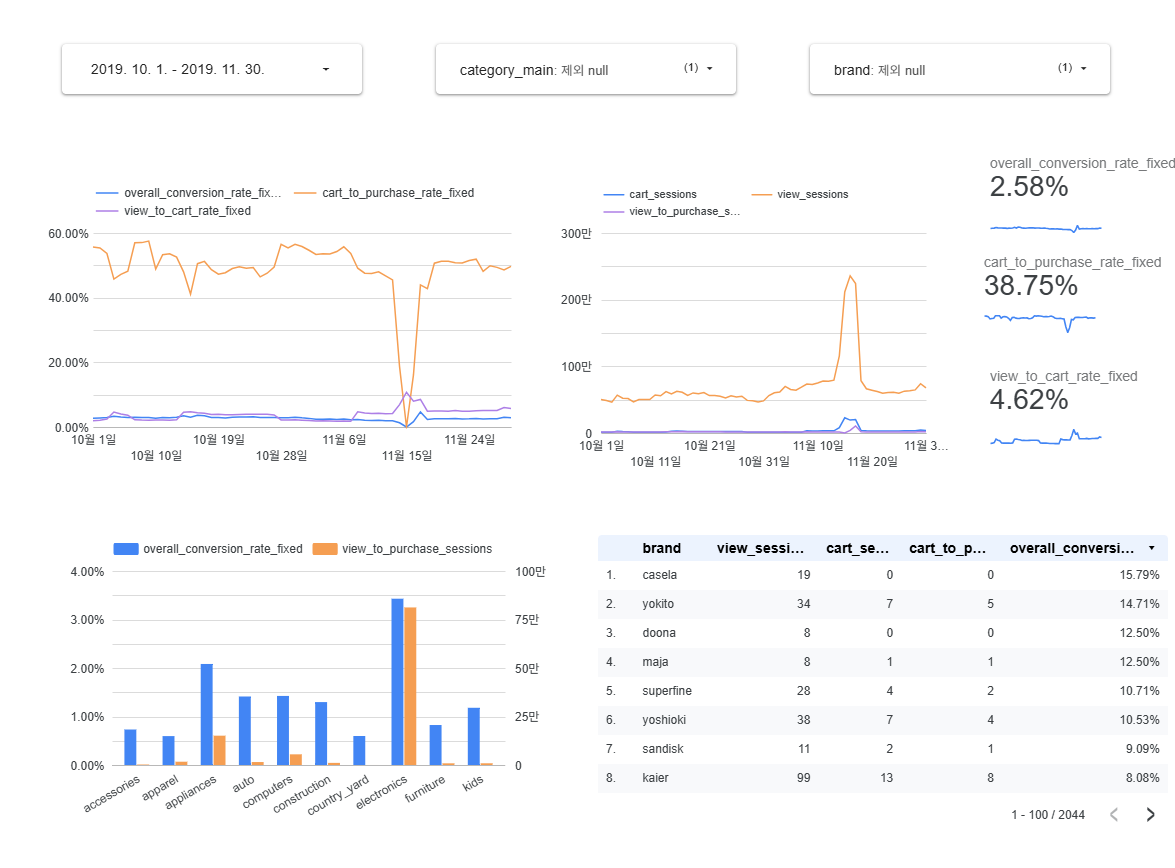
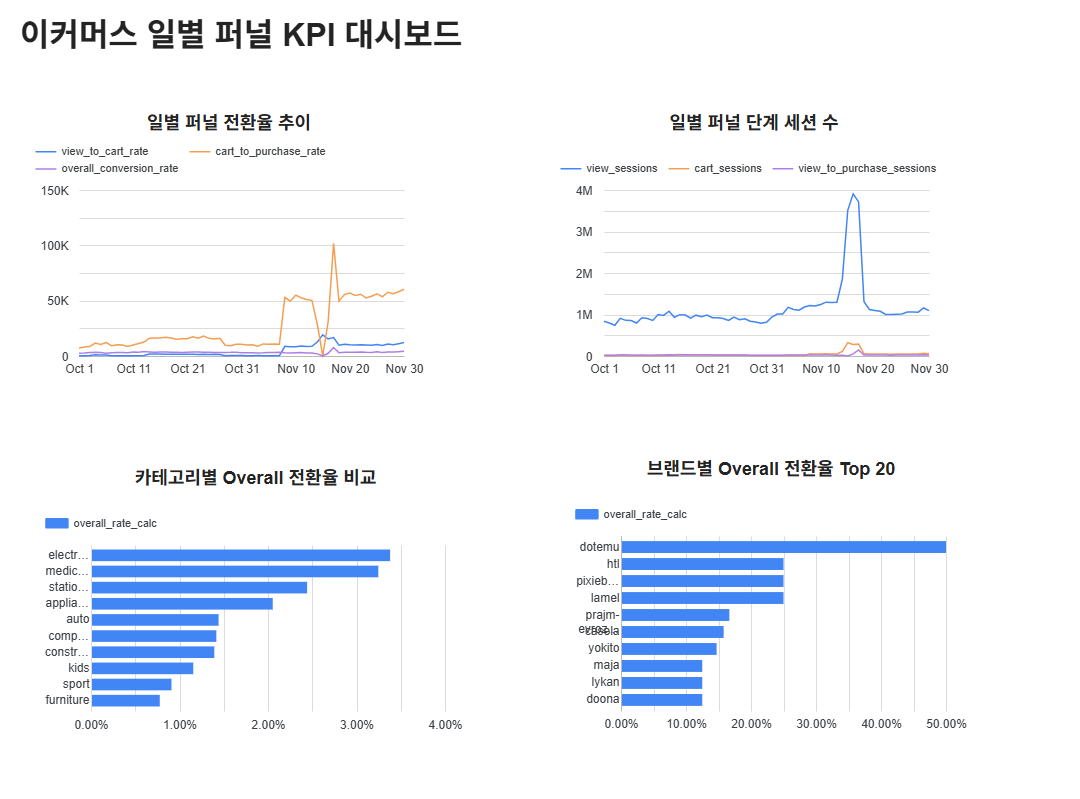
feat: complete

diff --git a/docs/portfolio/clickstream/ppt_slides.md b/docs/portfolio/clickstream/ppt_slides.md
@@ -1,0 +1,169 @@
+# 클릭스트림 파이프라인 PPT 슬라이드 상세 구성안 (발표용 본문 확장)
+
+## 슬라이드 1. 프로젝트 소개
+- 제목: 클릭스트림 전환 퍼널 분석 파이프라인 구축
+- 한 줄 요약: "유입은 많은데 구매가 안 되는 문제를 데이터 파이프라인으로 해결"
+- 문제: 데이터가 흩어져 있어 전환 병목을 일관되게 측정하기 어려움
+- 해결: 수집 -> 변환 -> 적재 -> 모델링 -> 시각화를 하나의 운영 흐름으로 구현
+- 성과: 퍼널 KPI를 주기적으로 확인하고 개선 우선순위를 정할 수 있는 기반 확보
+- 시각 요소: 파이프라인 아이콘 타임라인
+- 발표 포인트: 비즈니스 문제를 기술 구현으로 연결한 프로젝트임을 먼저 강조
+
+## 슬라이드 2. 문제 정의(상세)
+- 현상 1: view 트래픽은 충분한데 purchase 전환은 기대 대비 낮음
+- 현상 2: 유입 증가 구간에서도 구매가 비례 증가하지 않는 케이스 존재
+- 현상 3: 카테고리/브랜드별 편차는 큰데 원인 분석 기준 부재
+- 원인 가설 A: 상품 정보/가격/리뷰 부족 -> `view -> cart` 이탈
+- 원인 가설 B: 배송비/결제 복잡도/신뢰 이슈 -> `cart -> purchase` 이탈
+- 데이터 과제: 원본 로그 품질 편차로 지표 신뢰성 위험
+- 해결 목표: 단계별 손실 구간과 개선 대상을 데이터로 명확화
+- 시각 요소: 퍼널 + 원인 가설 매핑 다이어그램
+- 발표 포인트: "전환이 낮다"가 아니라 "어디서 왜 낮은지"를 찾는 문제로 재정의
+
+## 슬라이드 3. 목표와 KPI 정의
+- 목표 1: 수작업 없는 배치 파이프라인 자동화
+- 목표 2: 전환 KPI 정의 표준화(팀 내 지표 해석 일치)
+- 목표 3: 분석 결과를 실행 액션으로 연결
+- KPI 1: `view_to_cart_rate` = cart/view
+- KPI 2: `cart_to_purchase_rate` = purchase/cart
+- KPI 3: `overall_conversion_rate` = purchase/view
+- 분석 축: 월/일, 카테고리, 브랜드, 세션+상품
+- 시각 요소: KPI 정의 테이블
+- 발표 포인트: KPI를 먼저 고정해 추후 논쟁 비용을 줄인 점 강조
+
+## 슬라이드 4. 전체 아키텍처
+- 입력: Kaggle E-commerce Behavior Data (2019 Oct/Nov)
+- 저장 계층: GCS `raw/kaggle/` -> GCS `processed/clickstream/`
+- 처리 계층: Spark(Dataproc)로 타입 정제/파티션 생성
+- 웨어하우스: BigQuery 외부테이블 + 파티션/클러스터 테이블
+- 모델 계층: dbt(staging -> marts)
+- 소비 계층: Looker Studio 대시보드
+- 오케스트레이션: Airflow 3개 DAG 분리 운영
+- 시각 요소: End-to-End 아키텍처 다이어그램
+- 발표 포인트: 계층 분리로 운영/장애 대응/확장성 확보
+
+## 슬라이드 5. Terraform 인프라 구현
+- 문제: 수동 리소스 생성 시 환경별 불일치와 누락 발생
+- 해결: Terraform으로 리소스 선언적 관리
+- 구현 1: GCS bucket 생성(버저닝, lifecycle rule, uniform access)
+- 구현 2: BigQuery dataset 생성
+- 운영 효과: 재현 가능한 환경 구축, 재배포 시간 단축
+- 리스크/주의: `force_destroy` 설정 사용 시 운영 정책 분리 필요
+- 시각 요소: Terraform 리소스 관계도
+- 발표 포인트: IaC로 "개발환경만 되는" 상태를 방지
+
+## 슬라이드 6. Airflow DAG 분리 전략
+- DAG 1: `clickstream_ingest_raw` (수집)
+- DAG 2: `clickstream_spark_transform` (변환)
+- DAG 3: `clickstream_pipeline` (적재+모델링+검증)
+- 문제: 단일 DAG에 모든 단계를 넣으면 장애 구간 추적이 어려움
+- 해결: 역할별 DAG 분리 + 태스크 책임 명확화
+- 운영 장점: 실패 범위 축소, 재실행 단위 최소화
+- 공통 운영: 실패 시 Slack webhook 알림
+- 시각 요소: DAG 분리 구조도
+- 발표 포인트: 기술 구현보다 운영가능성(operability)을 우선한 설계
+
+## 슬라이드 7. Ingest DAG 상세 구현
+- 태스크 1: Kaggle CLI로 원본 zip 다운로드
+- 태스크 2: PythonOperator로 zip 압축 해제
+- 태스크 3: CSV 파일을 GCS `raw/kaggle/` 업로드
+- 데이터 보장: 파일 존재 여부 검증 후 실패 처리(FileNotFoundError)
+- 문제 해결: 수작업 다운로드/업로드 제거
+- 성과: 원천 수집 표준화, 월별 입력 재현 가능
+- 시각 요소: ingest task sequence
+- 발표 포인트: "데이터 유입" 단계 자동화가 파이프라인 신뢰성 시작점
+
+## 슬라이드 8. Spark Transform DAG 상세
+- 태스크 1: `csv_parquet_job.py`를 GCS `code/` 경로 업로드
+- 태스크 2: Dataproc job 실행(10월)
+- 태스크 3: Dataproc job 실행(11월)
+- 설정: executor instances/cores/memory, shuffle partition 등 성능 파라미터 명시
+- 운영 제어: `max_active_runs=1`로 중복 실행 제한
+- 문제 해결: 대용량 CSV 직접 쿼리 비효율 해소
+- 성과: 분석 친화 포맷(Parquet) 전환
+- 시각 요소: Dataproc 실행 플로우
+- 발표 포인트: 데이터량 증가를 고려한 분산 처리 선택 근거
+
+## 슬라이드 9. Spark 변환 로직 핵심
+- Bronze: 모든 컬럼 string으로 읽어 원본 손실 최소화
+- Typed: 주요 컬럼 타입 캐스팅(`event_time`, `product_id`, `price`, `user_id` 등)
+- 품질: 캐스팅 실패 탐지 후 `failure_reason` 컬럼으로 원인 라벨링
+- Processed: 핵심 식별값 유효한 행만 채택(event_time/user_id/product_id)
+- 스키마 안정화: Processed schema 재강제(enforce)
+- 시계열 컬럼: `event_date`, `event_month`, `event_month_date` 파생
+- 시각 요소: Bronze -> Typed -> Processed 데이터 흐름
+- 발표 포인트: 변환 로직이 단순 포맷 변경이 아니라 데이터 품질 게이트 역할 수행
+
+## 슬라이드 10. 저장 전략과 재실행 안정성
+- 출력 포맷: Parquet + Snappy compression
+- 파티션: `event_month`, `event_date`
+- 문제: 재실행 시 중복 적재/불일치 위험
+- 해결: 대상 월 파티션 경로 삭제 후 append 적재
+- 결과: 월 단위 idempotent 재처리 가능
+- 확장성: 월 추가 시 동일 패턴 재사용 가능
+- 시각 요소: 파티션 overwrite 전략 도식
+- 발표 포인트: 운영 환경에서 재실행 전략은 필수 설계 요소
+
+## 슬라이드 11. BigQuery DDL/적재 구조
+- SQL 1: `create_external_table.sql` (GCS 원본 참조)
+- SQL 2: `create_partitioned_table.sql`
+- SQL 3: `create_partitioned_clustered_table.sql`
+- 문제: 원본 접근성과 쿼리 성능/비용을 동시에 만족해야 함
+- 해결: 외부테이블 + 최적화 테이블 2계층 운영
+- 성과: 분석용 소스 안정화 및 비용 관리 기반 확보
+- 시각 요소: BigQuery 테이블 계층 구조
+- 발표 포인트: "일단 적재"가 아니라 "분석 운영 관점" DDL 설계
+
+## 슬라이드 12. dbt Staging 모델(`stg_clickstream`)
+- 입력 소스: `clickstream_partitioned_clustered`
+- 정제 1: 이벤트 타입 `view/cart/purchase`만 필터
+- 정제 2: `user_id`, `user_session`, `product_id` null 제거
+- 파생: `category_code`에서 `category_main` 추출
+- 표준화: 컬럼 타입 cast 통일
+- 문제 해결: 원본 로그 품질 편차 완화
+- 성과: 하위 mart 모델의 안정된 입력 보장
+- 시각 요소: stg 전/후 컬럼 비교표
+- 발표 포인트: staging 품질이 전체 KPI 신뢰도의 출발점
+
+## 슬라이드 13. dbt Mart 모델(`fct`/`mart`)
+- `fct_funnel_events`: 세션+상품 단위 퍼널 플래그 생성
+- 플래그: `has_view`, `has_cart`, `has_purchase`, `funnel_stage`
+- `mart_funnel`: 월/카테고리/브랜드 단위 전환율 집계
+- `mart_daily_funnel_kpi`: 일 단위 KPI 및 세션 볼륨 집계
+- 지표 일관성: 동일 모수 기반 전환율 계산
+- 성과: BI에서 재가공 없이 바로 활용 가능
+- 시각 요소: dbt lineage + 지표 산식 박스
+- 발표 포인트: fact와 mart 분리로 상세 진단과 경영 지표를 동시 지원
+
+## 슬라이드 14. 품질 관리/테스트 현황
+- dbt test: `accepted_values`, `not_null` 적용
+- unit test 1: DAG import/태스크 구조 검증
+- unit test 2: Spark 함수(캐스팅/파티션/스키마) 검증
+- integration test: 샘플 데이터로 Spark E2E 흐름 검증
+- TODO: load/resilience/performance 테스트는 현재 skip
+- 리스크 관리: 구현/미구현 범위를 명시해 과장 방지
+- 시각 요소: 테스트 커버리지 매트릭스
+- 발표 포인트: "무엇을 검증했고 무엇이 남았는지" 투명하게 제시
+
+## 슬라이드 15. 대시보드 인사이트와 액션
+- 데이터소스: `mart_funnel`, `mart_daily_funnel_kpi`, `fct_funnel_events`
+- 인사이트 1: `view_to_cart_rate` 저조 카테고리 -> 상세페이지/가격 정책 점검 우선
+- 인사이트 2: `cart_to_purchase_rate` 저조 구간 -> 결제 UX/배송비 정책 실험 우선
+- 인사이트 3: 특정 일자 급락 -> 캠페인 품질/재고/운영장애 교차 점검
+- 액션 1: 상세 콘텐츠 개선 A/B 테스트
+- 액션 2: 결제 단계 단순화, 쿠폰/배송비 실험
+- 액션 3: 장바구니 이탈 세그먼트 리마케팅
+- 우선순위 기준: 영향도 x 실행 난이도 x 리드타임
+- 시각 요소: 인사이트 -> 액션 매핑 테이블
+- 발표 포인트: 분석이 "발견"에서 끝나지 않고 실행으로 이어진다는 점 강조
+
+## 슬라이드 16. 한계와 개선 로드맵
+- 한계 1: 배치 중심이라 near real-time 대응 한계
+- 한계 2: 고급 성능/회복탄력성 테스트 미완료
+- 단기(1~2개월): 모니터링/알림 강화, 테스트 보강
+- 중기(분기): 세그먼트/코호트/리텐션 분석 모델 추가
+- 장기(반기+): 스트리밍 수집/처리 아키텍처 전환 검토
+- 기대 효과: 운영 리스크 감소 + 인사이트 반영 속도 향상
+- 결론: 신뢰 가능한 데이터 제품으로 단계적 고도화
+- 시각 요소: 단기-중기-장기 로드맵 타임라인
+- 발표 포인트: 현재 수준을 과장하지 않고 확장 계획을 명확히 제시

diff --git a/docs/portfolio/clickstream/ppt_script.md b/docs/portfolio/clickstream/ppt_script.md
@@ -1,0 +1,49 @@
+# 클릭스트림 파이프라인 발표 대본 (16장 상세 버전)
+
+## 슬라이드 1. 타이틀
+안녕하세요. 이번 발표는 클릭스트림 데이터를 활용해 전환 퍼널 병목을 분석하는 데이터 파이프라인 구축 경험입니다. 핵심은 수집부터 BI 대시보드까지 하나의 운영 가능한 흐름으로 연결한 점입니다.
+
+## 슬라이드 2. 비즈니스 문제 정의
+문제는 단순히 전환율이 낮다는 것이 아니라, 이탈 원인을 설명할 수 있는 기준이 없었다는 점입니다. 실제로 트래픽은 증가해도 구매가 함께 늘지 않는 구간이 있었고, 카테고리와 브랜드별 편차도 크게 나타났습니다. 그래서 퍼널을 `view -> cart -> purchase`로 분해하고, 단계별로 어떤 대상에서 손실이 큰지 비교 가능하게 만들었습니다. 또한 원인 가설을 가격/콘텐츠 이슈와 결제/배송 UX 이슈로 나눠 액션 가능한 분석 구조로 설계했습니다.
+
+## 슬라이드 3. 목표와 KPI
+목표는 세 가지입니다. 파이프라인 자동화, KPI 표준화, 대시보드 기반 액션 연결입니다. KPI는 `view_to_cart_rate`, `cart_to_purchase_rate`, `overall_conversion_rate`로 고정해 해석 일관성을 맞췄습니다.
+
+## 슬라이드 4. 아키텍처
+아키텍처는 Kaggle 수집, GCS 저장, Spark 변환, BigQuery 적재, dbt 모델링, Looker Studio 시각화 순서입니다. 저장/처리/분석 계층을 분리해 운영성과 확장성을 동시에 확보했습니다.
+
+## 슬라이드 5. 인프라 구현
+인프라는 Terraform으로 코드화했습니다. GCS bucket과 BigQuery dataset을 프로비저닝하여 환경 재현성을 확보했습니다. 수동 구성 대비 세팅 오차를 줄이고 초기 구축 시간을 단축했습니다.
+
+## 슬라이드 6. Airflow DAG 구조
+Airflow는 역할별로 3개 DAG로 나눴습니다. ingest, transform, modeling 단계를 분리해 실패 지점을 빠르게 식별할 수 있게 했고, 운영 중 장애 대응 속도를 높였습니다.
+
+## 슬라이드 7. Ingest DAG
+`clickstream_ingest_raw`는 Kaggle 다운로드, 압축 해제, GCS 업로드를 수행합니다. 반복 작업을 자동화해 원천 데이터 유입 과정을 표준화했습니다.
+
+## 슬라이드 8. Spark Transform DAG
+`clickstream_spark_transform`은 Spark job 파일을 GCS에 올린 뒤 Dataproc에서 10월/11월 데이터를 처리합니다. Spark 리소스 파라미터를 지정해 안정적으로 변환이 수행되도록 구성했습니다.
+
+## 슬라이드 9. Spark 로직 핵심
+Spark job은 먼저 Bronze 문자열 스키마로 읽고 타입 캐스팅을 수행합니다. 캐스팅 실패는 `failure_reason`으로 라벨링해 추적 가능하게 만들었습니다. 유효 데이터는 Processed 스키마로 강제해 데이터 타입 안정성을 보장했습니다.
+
+## 슬라이드 10. 저장 전략
+결과는 Parquet(Snappy)로 저장하고 `event_month`, `event_date` 파티션을 사용합니다. 재실행 시 대상 월 파티션을 정리한 뒤 append로 적재해 중복 적재 위험을 줄였습니다.
+
+## 슬라이드 11. BigQuery 구현
+BigQuery는 외부테이블과 파티션/클러스터 테이블을 SQL 3종으로 생성합니다. 이 구조를 통해 원본 접근성과 분석 성능을 함께 확보했습니다.
+
+## 슬라이드 12. dbt Staging
+`stg_clickstream`에서는 이벤트 타입 필터링, 필수 키 null 제거, 카테고리 대분류 파생을 수행합니다. 이 단계로 원본 로그를 분석 가능한 표준 형태로 맞췄습니다.
+
+## 슬라이드 13. dbt Mart
+`fct_funnel_events`에서 세션+상품 단위 퍼널 도달 플래그를 만들고, `mart_funnel`과 `mart_daily_funnel_kpi`에서 BI용 집계를 제공합니다. 결과적으로 동일 정의로 월/일 전환률을 일관되게 비교할 수 있습니다.
+
+## 슬라이드 14. 품질/테스트
+품질은 dbt test와 코드 테스트로 검증합니다. unit/integration은 구현했고, load/resilience/performance는 TODO로 관리하고 있습니다. 구현 범위와 미구현 범위를 분리해 운영 리스크를 투명하게 관리합니다.
+
+## 슬라이드 15. 대시보드와 인사이트
+Looker Studio에서는 전환 추이, 카테고리/브랜드 비교, 단계 분포를 함께 봅니다. 예를 들어 `view_to_cart_rate`가 낮으면 상세페이지나 가격 경쟁력 이슈를 우선 의심하고, `cart_to_purchase_rate`가 낮으면 결제 UX나 배송비 정책 이슈를 먼저 점검합니다. 특정 날짜 구간 급락은 캠페인 유입 품질, 재고, 운영 장애 로그와 함께 원인 분석합니다. 이렇게 인사이트를 바로 실행 과제와 연결해 개선 우선순위를 정하도록 구성했습니다.
+
+## 슬라이드 16. 한계와 개선 계획
+현재는 배치 중심이라 실시간 대응이 제한됩니다. 단기적으로 모니터링과 테스트를 강화하고, 중기에는 세그먼트 분석, 장기에는 스트리밍 기반으로 확장할 계획입니다.

diff --git a/README.md b/README.md
@@ -140,14 +140,42 @@ dbt test --profiles-dir .  # 데이터 품질 테스트
 | `mart_funnel` | 전환율 집계 (Looker Studio 연결용) |
 
 ### 6) 시각화 (Looker Studio)
-- BigQuery `clickstream_dbt.mart_funnel` 테이블을 Looker Studio에 연결하여 대시보드를 구성합니다.
+- BigQuery `clickstream_dbt` 데이터셋의 `mart_funnel`, `mart_daily_funnel_kpi`, `fct_funnel_events`를 Looker Studio에 연결합니다.
 
 ## 아키텍처
 ![아키텍처](images/architecture.png)
 
 ## Looker Studio 데이터 시각화
-![alt text](assets/mart_funnel.png)
-![alt text](assets/mart_daily_funnel_kpi.png)
+### 1) `mart_funnel` (월/카테고리/브랜드 전환율 비교)
+- 추천 차트: 월별 전환율 시계열, 카테고리/브랜드 전환율 막대 차트
+![mart_funnel](assets/mart_funnel.png)
+
+### 2) `mart_daily_funnel_kpi` (일별 KPI 모니터링)
+- 추천 차트: 일별 전환율 추이, 일별 세션 볼륨 추이
+![mart_daily_funnel_kpi](assets/mart_daily_funnel_kpi.png)
+
+### 3) `fct_funnel_events` (세션+상품 단위 퍼널 진단)
+- 추천 차트: `funnel_stage` 분포 도넛/막대, 카테고리별 단계 누적 막대
+![fct_funnel_events](assets/fct_funnel_events.png)
+
+## Looker Studio 결과 기반 인사이트
+### 1) `mart_funnel`
+- 차트: 월별 전환율 시계열 (`view_to_cart_rate`, `cart_to_purchase_rate`, `overall_conversion_rate`)
+- 인사이트: 월 단위 추세를 통해 전환율 개선/악화 시점을 파악하고, 프로모션/가격 정책 변경 시점과 비교해 효과를 평가할 수 있습니다.
+- 차트: 카테고리/브랜드 전환율 막대 차트
+- 인사이트: `category_main`과 `brand`별 편차를 비교해 개선 우선순위(상세페이지, 가격, 리뷰 관리)를 정할 수 있습니다.
+
+### 2) `mart_daily_funnel_kpi`
+- 차트: 일별 전환율 추이 시계열
+- 인사이트: 특정 날짜 급등/급락을 빠르게 찾고, 마케팅 집행/장애/재고 이슈와 연결해 원인을 좁힐 수 있습니다.
+- 차트: 일별 세션 볼륨 추이 (`view_sessions`, `cart_sessions`)
+- 인사이트: 유입은 늘었는데 전환이 낮으면 유입 품질 문제, 유입과 전환이 동반 상승하면 캠페인 적합도가 높다고 해석할 수 있습니다.
+
+### 3) `fct_funnel_events`
+- 차트: `funnel_stage` 분포 도넛/막대
+- 인사이트: 전체 세션이 어느 단계에서 가장 많이 이탈하는지 확인해 병목 구간(view→cart vs cart→purchase)을 명확히 볼 수 있습니다.
+- 차트: 카테고리별 단계 누적 막대 + 상세 테이블 (`has_view`, `has_cart`, `has_purchase`)
+- 인사이트: `purchase` 대비 `cart` 비율이 낮은 카테고리/브랜드를 찾아 결제 UX, 쿠폰, 배송비 정책 개선 대상을 구체화할 수 있습니다.
 
 ## 참고 자료
 - 데이터셋: [E-commerce Behavior Data (2019 Oct/Nov)](https://www.kaggle.com/datasets/mkechinov/ecommerce-behavior-data-from-multi-category-store?select=2019-Oct.csv)

diff --git a/docs/portfolio/clickstream/ppt_prompt.md b/docs/portfolio/clickstream/ppt_prompt.md
@@ -1,0 +1,82 @@
+# 클릭스트림 파이프라인 포트폴리오 PPT 생성 프롬프트 (구현 내역 누락 금지 버전)
+
+아래 요구사항으로 한국어 발표용 PPT를 만들어줘.
+핵심: **실제 구현된 내용이 빠지면 안 된다.**
+
+## 1) 발표 조건
+- 목적: 데이터 엔지니어 포트폴리오 면접 발표
+- 시간: 7~10분
+- 슬라이드: 10장
+- 구조: 모든 장에서 `문제 -> 해결 -> 성과` 흐름 유지
+
+## 2) 출력 형식(각 슬라이드 공통)
+- 제목 1개
+- 핵심 bullet 4~6개
+- 시각 요소 제안 1개
+- 발표자 노트 3~5문장
+
+## 3) 반드시 포함할 "구현 완료" 항목 체크리스트
+아래 항목은 슬라이드 어딘가가 아니라, 논리 흐름에 맞춰 명시적으로 포함할 것.
+
+### A. 오케스트레이션/Airflow
+- DAG 3개 이름과 역할을 정확히 표기
+  - `clickstream_ingest_raw`: Kaggle download -> unzip -> GCS upload
+  - `clickstream_spark_transform`: Spark job 업로드 후 Dataproc 월별(10/11) 실행
+  - `clickstream_pipeline`: BigQuery DDL -> `dbt run` -> `dbt test`
+- 실패 알림: Slack webhook 콜백
+
+### B. Spark 변환
+- 파일: `spark/jobs/csv_parquet_job.py`
+- 핵심 구현:
+  - Bronze 문자열 스키마 로딩
+  - 타입 캐스팅 실패 탐지 및 `failure_reason` 라벨링
+  - 유효 행 정제 후 Processed 스키마 강제
+  - `event_month`, `event_date`, `event_month_date` 생성
+  - Parquet(Snappy) 저장
+  - 대상 월 파티션 정리 후 append 적재
+
+### C. BigQuery
+- SQL 3종 실행 사실 명시:
+  - `create_external_table.sql`
+  - `create_partitioned_table.sql`
+  - `create_partitioned_clustered_table.sql`
+
+### D. dbt 모델
+- 모델 4개 이름과 역할을 정확히 표기:
+  - `stg_clickstream`
+  - `fct_funnel_events`
+  - `mart_funnel`
+  - `mart_daily_funnel_kpi`
+- 전환 KPI 3종 포함:
+  - `view_to_cart_rate`
+  - `cart_to_purchase_rate`
+  - `overall_conversion_rate`
+
+### E. 테스트/품질
+- 구현된 테스트:
+  - unit: DAG 구조 검증, Spark 변환 함수 검증
+  - integration: Spark 변환 샘플 E2E
+  - dbt test: `accepted_values`, `not_null`
+- 미구현 항목도 정직하게 표기:
+  - load/resilience/performance 테스트는 TODO(현재 skip)
+
+### F. 인프라
+- Terraform으로 GCS bucket, BigQuery dataset 프로비저닝 명시
+
+## 4) 슬라이드별 요구사항
+1. 프로젝트 개요
+2. 문제 정의/KPI
+3. 아키텍처
+4. Airflow 3개 DAG 구현
+5. Spark 변환 로직
+6. BigQuery DDL + 적재 전략
+7. dbt 모델 4개
+8. 테스트/품질 현황(구현 vs TODO)
+9. Looker Studio 대시보드와 인사이트
+10. 한계/개선 로드맵
+
+## 5) 작성 규칙
+- 실제 파일/모델/DAG 이름을 정확히 쓸 것
+- 없는 기능을 있는 것처럼 쓰지 말 것
+- 수치가 확정되지 않은 경우 임의 수치 생성 금지
+- 문체는 과장 없는 실무형
